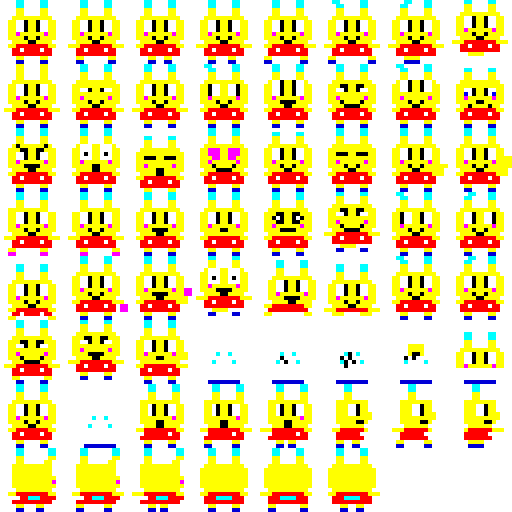
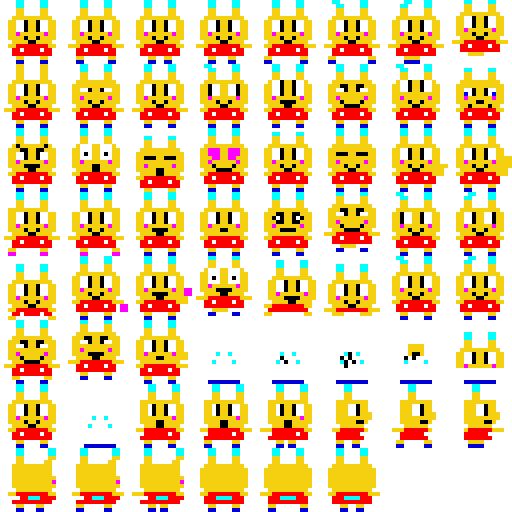
Um bicho só: a folha nova entra e as poses de brincar entram na paleta
A folha que você subiu troca o amarelo de todos os quadros — de amarelo
puro para o dourado das poses de brincar. Ela substitui a folha antiga:
mesmo tamanho, mesmo recorte, mesma ordem, só a cor.

Faltava o resto do bicho. Comparando pixel a pixel, a folha de brincar
não diferia só no amarelo: o vermelho do calção era de tijolo e o
contorno era marrom, contra o vermelho puro e o preto da folha
principal. Na hora em que a criatura chegava na bola, ela trocava de
cor no meio do gesto.

Em vez de repintar a arte, o desenho é encostado na paleta na hora de
recortar: cada pixel vira a cor mais próxima entre as sete do Tintim.
Um tijolo vira o vermelho da folha, um marrom vira preto — e as sobras
de borda do desenho original se resolvem junto, de graça. Medido: as
cinco poses agora usam exatamente as cores da folha, e nenhuma a mais.

A bola e os presentes continuam com a paleta deles: são objetos
desenhados à mão, e é assim que devem ser. Quem tem de ser uma coisa só
é a criatura.

diff --git a/src/rendering/textures/tintimSheet.ts b/src/rendering/textures/tintimSheet.ts
@@ -417,6 +417,61 @@ export function frameFor(choice: FrameChoice): number {
  * recortes: o Pixi desenha o rebanho inteiro numa levada de GPU.
  */
 /**
+ * A PALETA DA CRIATURA — a do ZX Spectrum, chapada.
+ *
+ * Sete cores, e nenhuma a mais. É a paleta da folha principal, e é ela que
+ * define como o Tintim é.
+ */
+const PALETTE: ReadonlyArray<readonly [number, number, number]> = [
+  [245, 208, 16], // amarelo
+  [255, 0, 0], // vermelho
+  [255, 255, 255], // branco
+  [0, 0, 0], // contorno
+  [0, 255, 255], // ciano
+  [0, 0, 215], // azul das lágrimas
+  [255, 0, 255], // magenta
+];
+
+/**
+ * ENCOSTA CADA PIXEL NA COR MAIS PRÓXIMA DA PALETA.
+ *
+ * A folha de brincar veio de outra mão, com um vermelho de tijolo e um
+ * contorno marrom no lugar do vermelho puro e do preto. De longe passava; na
+ * hora em que a criatura chegava na bola, ela trocava de cor no meio do gesto
+ * — o mesmo bicho, dois desenhos diferentes.
+ *
+ * Em vez de repintar a arte, o desenho é encostado na paleta na hora de
+ * recortar: um pixel de tijolo vira o vermelho da folha, um marrom vira preto.
+ * Como o desenho já é de sete cores chapadas, "a mais próxima" acerta sempre —
+ * e os pixels de borda que sobraram do desenho original acertam também, que é
+ * de graça.
+ */
+function snapToPalette(ctx: CanvasRenderingContext2D, width: number, height: number): void {
+  const image = ctx.getImageData(0, 0, width, height);
+  const { data } = image;
+  for (let i = 0; i < data.length; i += 4) {
+    if (data[i + 3]! < 128) continue;
+    let best = PALETTE[0]!;
+    let bestDistance = Infinity;
+    for (const color of PALETTE) {
+      const dr = data[i]! - color[0];
+      const dg = data[i + 1]! - color[1];
+      const db = data[i + 2]! - color[2];
+      const distance = dr * dr + dg * dg + db * db;
+      if (distance < bestDistance) {
+        bestDistance = distance;
+        best = color;
+      }
+    }
+    data[i] = best[0];
+    data[i + 1] = best[1];
+    data[i + 2] = best[2];
+    data[i + 3] = 255;
+  }
+  ctx.putImageData(image, 0, 0);
+}
+
+/**
  * Os cinco quadros de brincar, tirados dos pares da folha de animação.
  *
  * Os pares são (criatura, bola), (criatura, bola)... — só os índices pares
@@ -438,6 +493,7 @@ export async function loadPlayFrames(): Promise<Texture[]> {
     // Índice par: a metade da criatura de cada par.
     ctx.drawImage(image, i * 2 * CELL, 0, CELL, CELL, i * ART, 0, ART, ART);
   }
+  snapToPalette(ctx, strip.width, strip.height);
   const source = Texture.from(strip).source;
   source.scaleMode = 'nearest';
   return Array.from(
